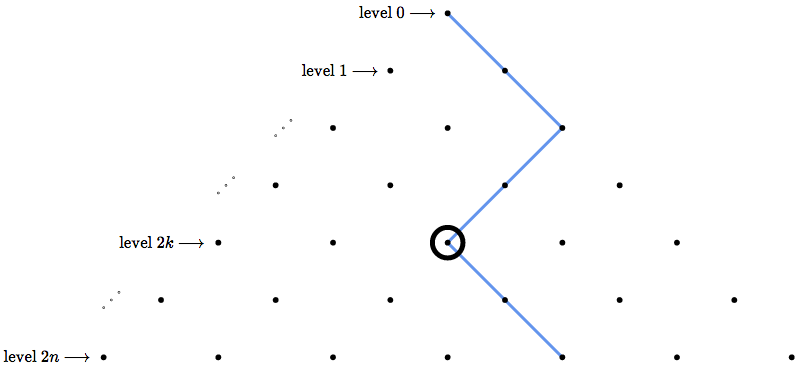
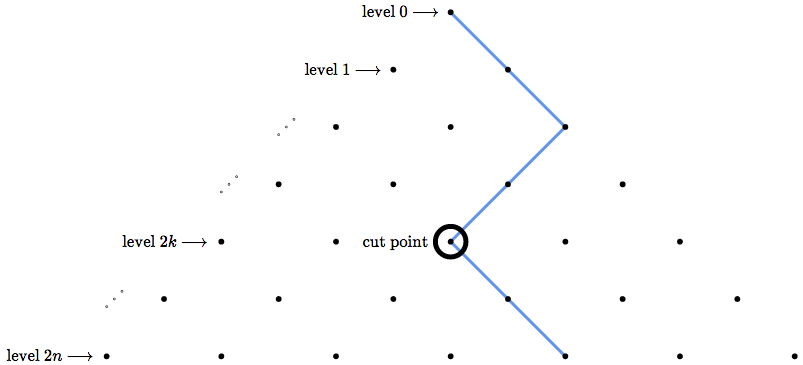
changed links to lattice reference on top, updated some terminology, and changed explanation of partition towards the end

diff --git a/index.html b/index.html
@@ -1,7 +1,7 @@
 <!DOCTYPE html>
 <html>
 <head>
-	<title>Lattice Proof of Combinatorics Identity</title>
+	<title>Lattice</title>
 	<style>
 		img {
 			display: block;
@@ -18,12 +18,12 @@
 <body>
 	<p>Theorem: $$\sum_{k=0}^{k=n}\binom{2k}{k}\binom{2n-2k}{n-k}=4^n$$</p>
 
-	<p>Proof:</p><p>We will prove the above using only lattice grids.  To read this article, you must first have a basic understanding of lattice grids.  An example of a lattice grid can be found <a href="http://web.mit.edu/yufeiz/www/wc08/comb.pdf">here</a> in the second question.  The drawing in the linked example shows a rectangular lattice grid with line segments traveling right or up.  Our examples orient the grid so that the starting point is on top and the paths travel diagonally down, either right or left.</p>
+	<p>Proof:</p><p>We will prove the above using only lattice paths.  To read this article, you must first have a basic understanding of lattice paths.  An example of a lattice can be found <a href="http://copingwithcomputers.com/2013/07/06/lattice-paths/">here</a> or <a href="http://www.robertdickau.com/lattices.html">here</a>.  The second drawing (the orange one) in the linked example shows a lattice  that starts in the left corner and expands to the right.  Each edge travels diagonally up-right, or diagonally down-right.  <i>Our</i> lattices will start at the <i>top</i> corner and expand downward.  Each edge on a path travels diagonally left-down, or diagonally right-down.</p>
 
-	<p>Consider the pyramid below of height $2k$, where each path starts at the top and walks always downwards.  A red path and an orange path are shown as examples.</p>
+	<p>Consider the lattice below of height $2k$, where each path starts at the top and walks always downward.  A red path and an orange path are shown as examples.</p>
 	<img src="images/p01.initial_example.png" />
 
-	<p>I chose the variable $2k$ for the height because we will only be dealing with even height pyramids today.</p>
+	<p>I chose to use $2k$ for the height because we will only be dealing with even height lattices today.</p>
 
 	<p>Now consider the set of paths from the top to the bottom center (thanks to the even height, there will be a bottom *center*).  We will call this the <u>diamond set</u>.  Elements of this set are shown below as an example.  Each element is painted a single color.</p>
 	<img src="images/p02.diamond_set.png" />
@@ -50,7 +50,7 @@
 
 	<p>Let us now talk about the inverse of this function:</p>
 
-	<p>Take a fan path, and look at the bottom fan point.  Count the columns it is away from the center, then divide by $2$ to get the distance of the reflection line from the center.  Follow the fan path from the bottom upwards until it touches the reflection line.  This intersection is the <u>reflection point</u>!.  Reflect the bottom piece and rotate the top portion like we did before...</p>
+	<p>Take a fan path, and look at the bottom fan point.  Count the columns it is away from the center, then divide by $2$ to get the distance of the reflection line from the center.  Follow the fan path from the bottom upwards until it touches the reflection line.  This intersection is the <u>reflection point</u>!  Reflect the bottom piece and rotate the top portion like we did before...</p>
 
 	<p>...reflect...</p>
 	<img src="images/p09.inverse_reflection_before.png" />
@@ -64,13 +64,15 @@
 
 	<p>So the number of diamond paths is equal to the number of fan paths!  That number is $\binom{2k}{k}$.  (Diamond paths have length $2k$, and we must choose exactly $k$ of the edges to be in the diagonally right direction.)</p>
 
-	<p>Back to our handy dandy pyramid.  Consider that the pyramid has height $2n$, and we would like all of our paths to go through a center point at height $2k$, then avoid the center afterwards.</p>
+	<p>Back to our handy dandy lattice.  Consider that the lattice has height $2n$, and we would like to partition the set of all possible lattice paths in a certain way.  Every path passes intersects the center line at least once (because the first point of the path intersects the center line).  For each path, we can find its <i>bottommost</i> intersection with the center line (and call this the <u>cut point</u>).  We will identify each path with the height (say, $2k$) of its cut point, and this partitions the paths.</p>
+
+	<p>Each path goes through a cut point at height $2k$ (for some $k$ between $0$ and $n$), then avoids the center line afterward.</p>
 	<img src="images/p13.example_path.png" />
 
-	<p>The result is that the top section (from level $0$ to level $2k$) is a diamond path and has $\binom{2k}k$ possibilities, and the bottom section (from level $2k$ to level $2n$) is a fan path which has $\binom{2n-2k}{n-k}$ possibilities, and therefore the total number of possibilities is $\binom{2k}{k}\binom{2n-2k}{n-k}$.</p>
+	<p>Given any path, if we cut it at its cut point, we get two pieces.  The piece from the top to the cut point is a diamond path.  And the piece from the cut point to the bottom is a fan path.  The diamond path (from level $0$ to level $2k$) has $\binom{2k}k$ possibilities, and the fan path (from level $2k$ to level $2n$) has $\binom{2n-2k}{n-k}$ possibilities, and therefore the total number of possibilities is $\binom{2k}{k}\binom{2n-2k}{n-k}$.  That is, the part of the partition of cut point height $2k$ contains exactly $\binom{2k}{k}\binom{2n-2k}{n-k}$ lattice paths.</p>
 	<img src="images/p14.diamond_and_fan_sets.png" />
 
-	<p>Summing these from $k=0$ to $k=n$ yields all possible paths!  If this is not clear, consider that every path must intersect the centerline because its very first point intersects the center line.  If we take the bottomost intersection with the centerline, then this splits the path into two pieces.  The piece from the beginning to this intersection is a diamond path.  And the piece from the intersection to the bottom is a fan path.</p>
+	<p>Since this is a partition, summing these from $k=0$ to $k=n$ yields all possible paths!</p>
 
 	<p>Finally, we find the total number of paths a different way.  Consider you are at the top and want to know the total number of possible paths.  You will pass $2n$ levels exactly (levels $0$ through $2n-1$), and as you pass each, you will have exactly $2$ options (left or right).  Therefore, the total number of paths is $2^{2n}=4^n$.</p>
 
